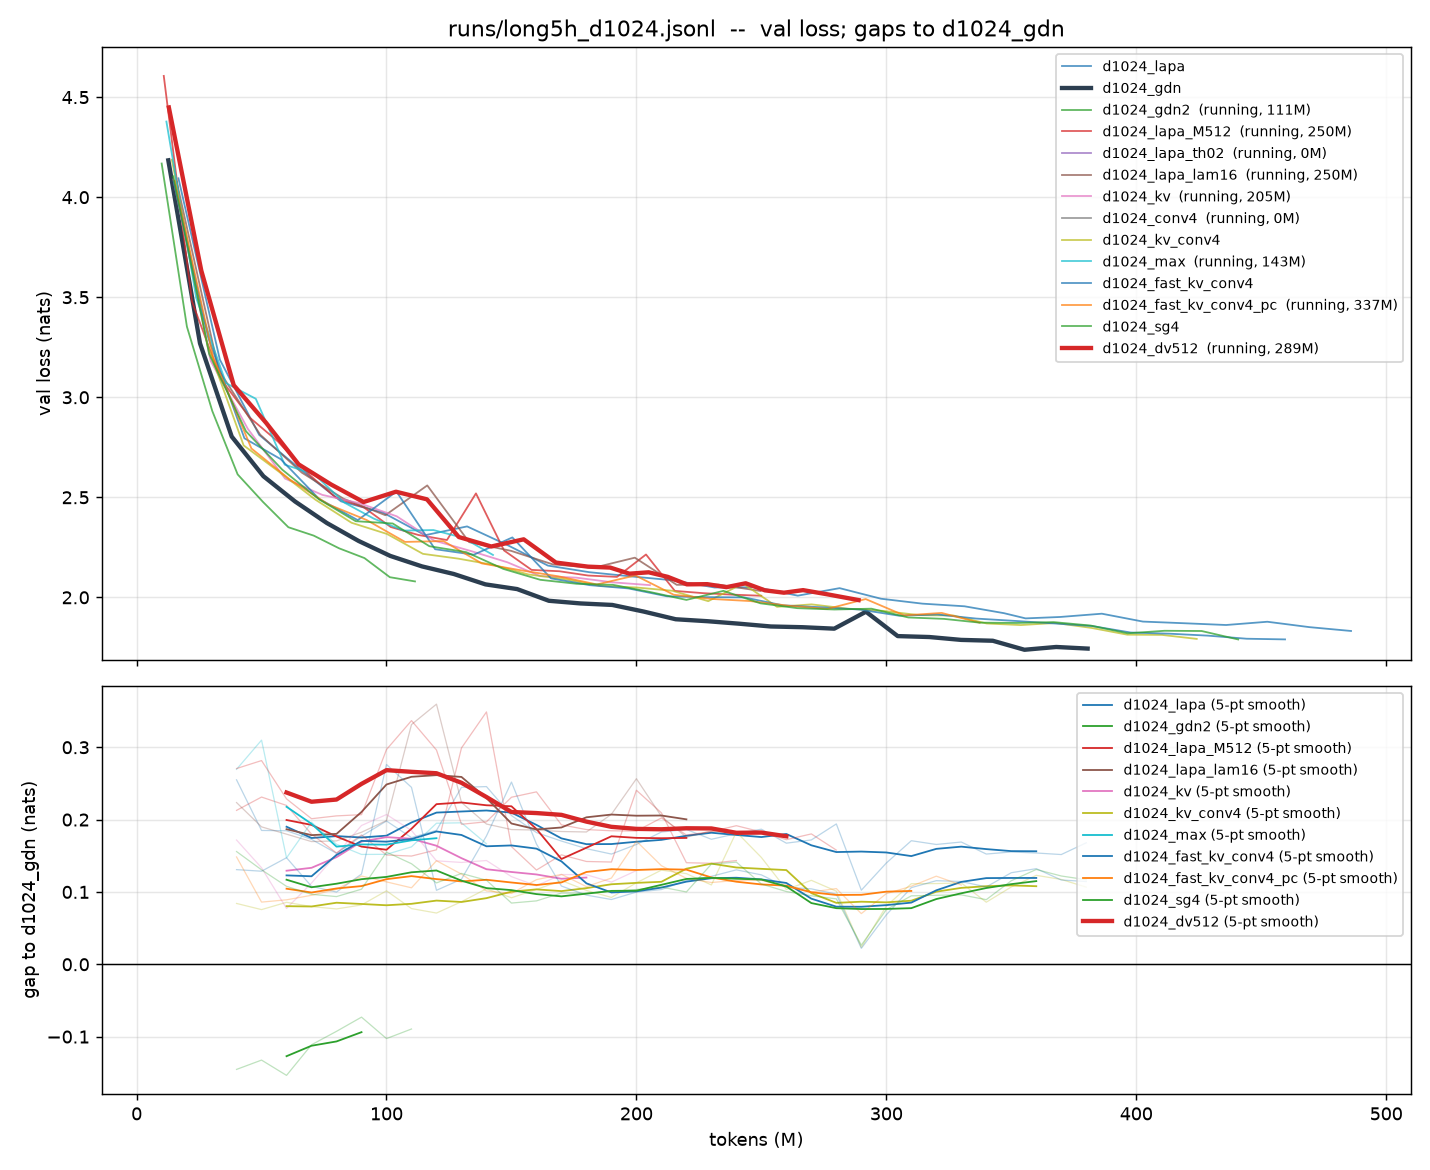
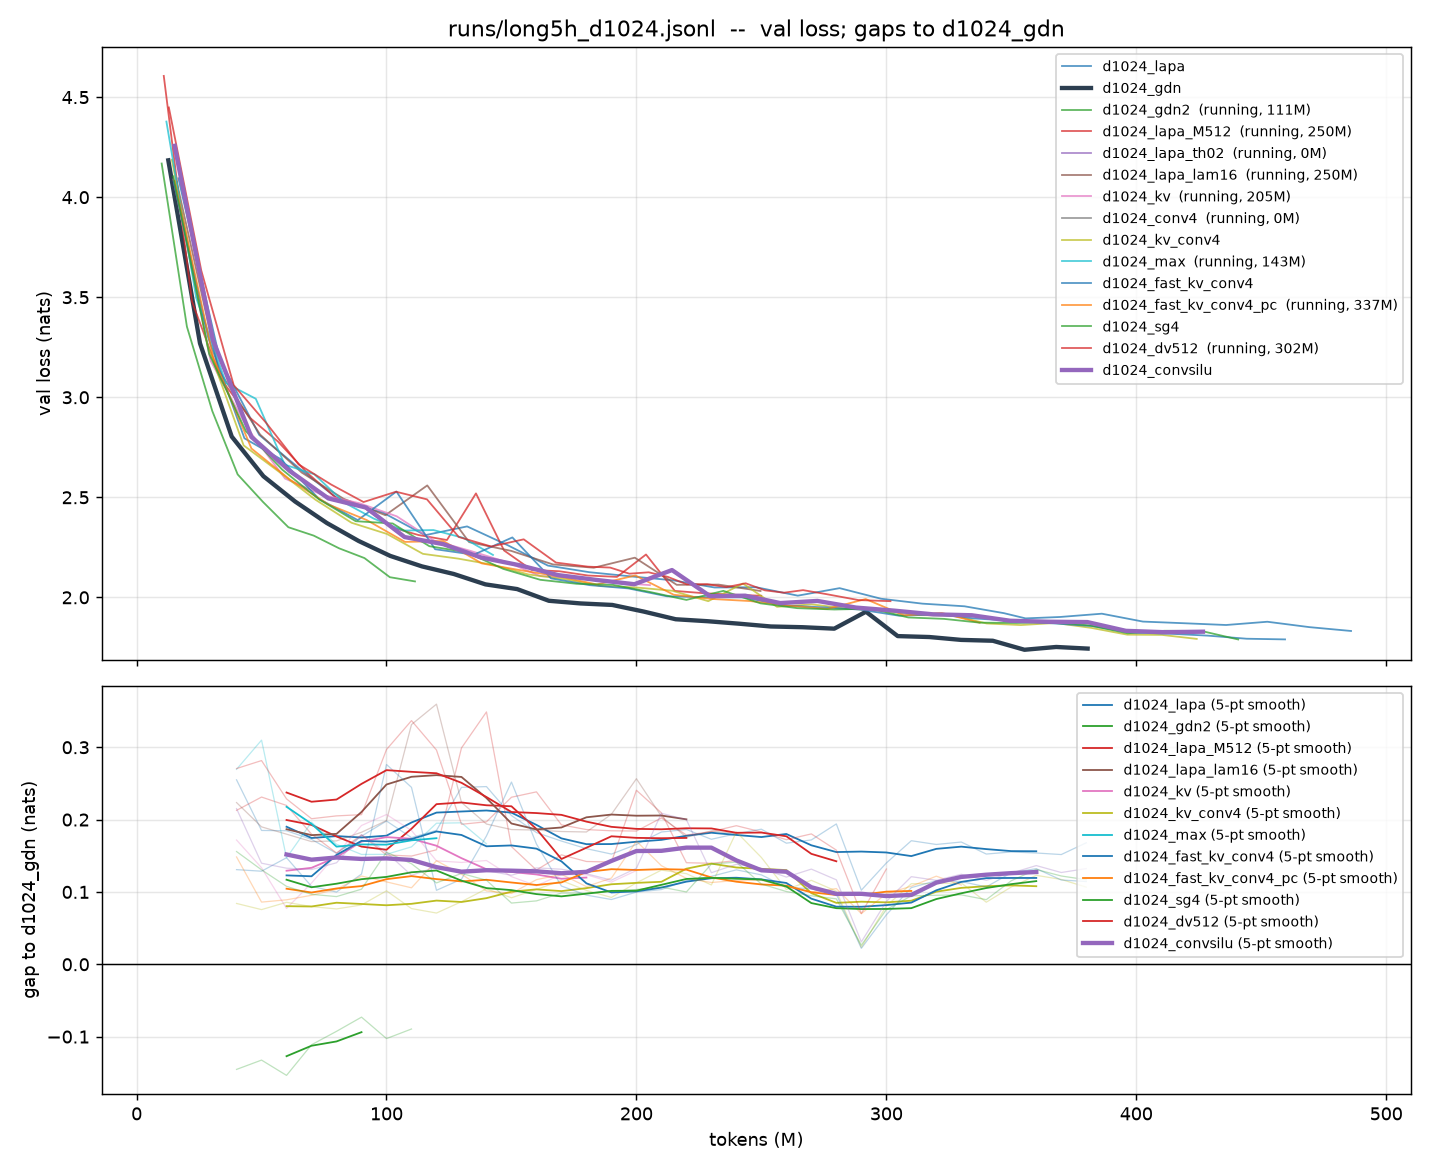
queue depth-at-matched-params and the erase gate's init; T=2048 corpus ready
d1024_L10    --layers 10. LapA is 10.32M/layer against GDN's 13.67M because its mixer is
             linear in d where GDN's is quadratic, so 10 layers cost 136.8M against GDN-8's
             142.9M, still 4.3% smaller. Must be read at MATCHED TOKENS: it drops to ~19.7k
             tok/s and lands behind GDN on tokens too, so it will look worse at equal wall
             clock than the 8-layer base. Opposite of every trade so far, which is why it
             is worth one arm.
d1024_beta0  --beta-init 0.0. GDN's b projection has no bias, so its erase gate starts at
             0.5; ours starts at 0.12. And GDN's delta rule ablates at +4.51 against our
             +1.42 -- same nominal mechanism, three times the load. Free.

SiLU after the conv: median +0.009 against the base over 39 spike-filtered points. Null.
It did climb back from a +0.167 start, which is the identity-at-init penalty being
absorbed as predicted, but reaching parity is not winning.

Worth recording because it now limits the whole approach: the last four arms sit within
0.03 of each other -- kv_conv4 +0.101, its EXACT PORT +0.114, sg4 +0.103, convsilu +0.133
-- and two of those compute the same function yet differ by 0.013. A single 5 h arm cannot
resolve below about +-0.03 on the median gap. Every mechanism tried since kv+conv has been
smaller than the instrument. Chasing further 0.01-sized effects with more 5 h arms will
produce noise; it needs 10 h or a second seed.
[…]

diff --git a/pretrain.py b/pretrain.py
@@ -235,6 +235,9 @@ def main(argv=None):
                    help="key-verification width on the lapa path (0 = off, 16 matches sca2's "
                         "cshort_damphkv). Stores the write key beside the value and gates the "
                         "read on whether it comes back matching the query's key.")
+    p.add_argument("--beta-init", type=float, default=-2.0, dest="beta_init",
+                   help="erase-gate bias at init; sigmoid of it. -2.0 = 0.12 (historical), "
+                        "0.0 = 0.5 which is where GDN's starts (its b has no bias).")
     p.add_argument("--conv-silu", action="store_true", dest="conv_silu",
                    help="SiLU after the causal conv, as GDN does on its q/k/v convs. Ours "
                         "was a purely linear convolution.")
@@ -305,7 +308,7 @@ def main(argv=None):
                    persist=a.persist, learn_persist=a.learn_persist, kv_dk=a.kv_dk,
                    kv_gate_pc=a.kv_gate_pc, beta_groups=a.beta_groups,
                    short_groups=a.short_groups, long_groups=a.long_groups,
-                   conv_silu=a.conv_silu,
+                   conv_silu=a.conv_silu, beta_init=a.beta_init,
                    lam_max=a.lam_max, damp_mem=tuple(float(v) for v in a.damp_mem.split(",")) if a.damp_mem else None,
                    gdn_heads=a.gdn_heads, gdn_head_k=a.gdn_head_k,
                    gdn_expand_v=a.gdn_expand_v)

diff --git a/sca2/ref.py b/sca2/ref.py
@@ -312,6 +312,9 @@ class LayerCfg:
     # raising Mc grows SCA2's state fast, so GDN needs the same lever.
     Ls: int = 16            # window of the short dft C head (arch_short.py), in tokens
     rope_base: float = 10000.0   # long-head grid omega_m = pi * base^(-m/(M-1)); unaliased range 2*base. Copy bench: base ~ T wins
+    beta_init: float = -2.0      # erase-gate bias: sigmoid(-2) = 0.12 at init. GDN's b has
+    #   NO bias, so its erase gate starts at sigmoid(0) = 0.5 -- 4x bolder than ours, and its
+    #   delta rule ablates 3x heavier (+4.51 vs our +1.42).
     conv_silu: bool = False      # SiLU after the causal conv (lapa path), as GDN does
     long_groups: int = 1         # same, on the LONG head (lapa path). This is wg2's
     #   experiment, which LOST at d=128 (+0.065); see lapa.layer.LaplaceConfig.long_groups.

diff --git a/sca2/arch_lapa.py b/sca2/arch_lapa.py
@@ -40,6 +40,7 @@ def config_from(cfg) -> LaplaceConfig:
         learn_persist=cfg.learn_persist,
         conv=cfg.conv,
         conv_silu=cfg.conv_silu,
+        beta_init=cfg.beta_init,
         kv_dk=cfg.kv_dk,
         kv_gate_pc=cfg.kv_gate_pc,
         beta_groups=cfg.beta_groups,
